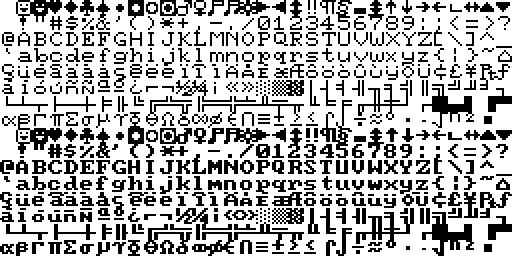
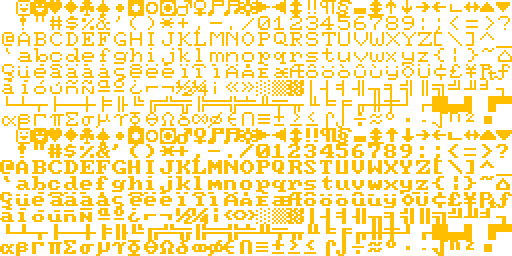
Amberify. Add health easter egg.

diff --git a/game.js b/game.js
@@ -17,6 +17,7 @@ var destroyableWalls = [461,442];
 function preload() {
 
     game.load.image('white32', 'white32.png');
+    game.load.image('black32', 'black32.png');
     game.load.image('borderTop', 'bordertop.png');
     game.load.image('borderBottom', 'borderbottom.png');
     game.load.image('borderLeft', 'bordertop.png');
@@ -150,7 +151,7 @@ function create() {
     enemyBulletGroup = game.physics.p2.createCollisionGroup();
     // game.physics.p2.updateBoundsCollisionGroup();
 
-    background = game.add.tileSprite(0, 0, SCREEN_WIDTH, SCREEN_HEIGHT, 'white32');
+    background = game.add.tileSprite(0, 0, SCREEN_WIDTH, SCREEN_HEIGHT, 'black32');
 
     game.add.tileSprite(0, 0, SCREEN_WIDTH, 5, 'borderTop');
     game.add.tileSprite(0, SCREEN_HEIGHT-5, SCREEN_WIDTH, 5, 'borderBottom');
@@ -183,9 +184,18 @@ function create() {
     };
 
     healthHUD = game.add.group();
-    healthHUD.createMultiple(player.maxHealth, 'colorCircle16', 3);
+    healthHUD.createMultiple(player.maxHealth, 'termfont', 278);
+    game.physics.p2.enable(healthHUD);
+    healthHUD.setAll('body.static', true);
+    healthHUD.setAll('body.fixedRotation', true);
     healthHUD.forEach(function(heart){
         heart.anchor.setTo(0.5, 0.5);
+        heart.body.setCollisionGroup(textGroup);
+        heart.body.collides([bulletGroup, enemyBulletGroup]);
+        heart.events.onKilled.add(function(){
+            player.damage(1);
+            updateHealthHUD();
+        });
     });
     updateHealthHUD();
 
@@ -237,9 +247,9 @@ function create() {
 function updateHealthHUD(){
     healthHUD.forEach(function(heart){
         if(heart.z <= player.health){
-            heart.reset(10+heart.z*18, SCREEN_HEIGHT-10, 1);
+            heart.reset(20+heart.z*17, SCREEN_HEIGHT-18, 1);
         }else{
-            heart.kill();
+            heart.exists = false;
         }
     });
 }
